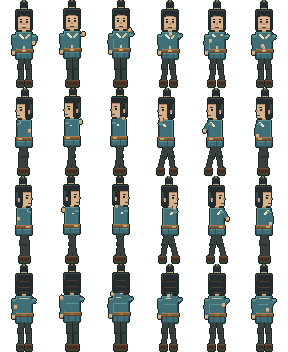
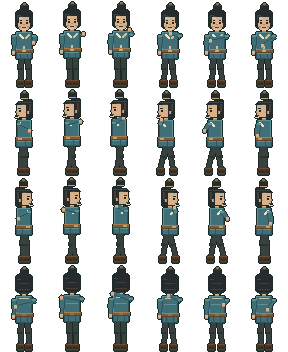
chore: 打包脚本纳入版本管理并同步协作方更新的角色图集
打包脚本
- 默认排除 6 张参考图（village/village_large/wall/barracks/field/home）：
  main.gd 运行期只读 hero.png 与 npcs.png，场景由 world_ground.gd 程序化绘制，
  这 6 张仅作美术定稿对照，v0.27 发布包本就不含。
- 需要时加 -IncludeReferenceArt 加回；输出会提示跳过数量。
- dry run：179 个文件 / 24.7MB。

同批同步（来自协作方）
- hero_walk/attack/idle_v28.png 与三张帧预览重新生成
- tools/pixel/hero.py 重构、palette.py 补色

已知问题（未修，待确认归属）：walk 图集四个朝向第 2 帧与第 4 帧仍像素全同。
工具中 phase = [1,0,-1,0][index]，第 1、3 帧同为过渡姿态且无左右换脚。
建议在 index==3 时把 feet/hands 两个端点对调，形成真正的四点循环。

diff --git a/tools/pixel/hero.py b/tools/pixel/hero.py
@@ -1,4 +1,4 @@
-"""主角陆承安的像素骨架。
+"""主角陆承安的像素骨架。
 
 不逐帧手绘，而是"关节参数 → 硬边像素"的确定性生成：
 同一个骨架产出 4 个朝向 × (行走 4 帧 + 挥剑 6 帧 + 待机 2 帧)，
@@ -52,76 +52,97 @@ def _leg(cv, hip, foot):
 
 
 # ---------------------------------------------------------------- 手臂
-def _arm(cv, shoulder, hand):
+def _arm(cv, shoulder, hand, inner=1):
     mid = ((shoulder[0] + hand[0]) / 2, (shoulder[1] + hand[1]) / 2)
     cv.limb(shoulder, mid, 5, "tunic")
     cv.limb(mid, hand, 4, "tunic")
     cv.rect(shoulder[0] - 2, shoulder[1] - 1, 4, 2, "tunic_lit")
+    # 内缘压暗，让手臂从躯干上"浮"出来
+    cv.line(shoulder[0] + 2 * inner, shoulder[1] + 1, hand[0] + 2 * inner, hand[1], "tunic_dark", 1)
     cv.rect(hand[0] - 1, hand[1] - 1, 3, 4, "skin")
     cv.rect(hand[0] - 1, hand[1] + 2, 3, 1, "skin_dark")
 
 
 # ---------------------------------------------------------------- 头
 def _bun(cv, x, y):
-    cv.rect(x, y, 6, 7, "hair")
-    cv.rect(x, y, 6, 1, "hair_lit")
-    cv.rect(x, y + 6, 6, 1, "gold")
-    cv.rect(x + 2, y - 2, 2, 2, "gold_dark")
+    """y 为发髻底边，正好压在头顶。"""
+    cv.rect(x, y - 5, 7, 6, "hair")
+    cv.rect(x, y - 5, 7, 1, "hair_lit")
+    cv.rect(x, y, 7, 1, "gold")
+    cv.rect(x + 2, y - 7, 3, 2, "gold_dark")
+
+
+# 头部轮廓：(行偏移, 左内缩, 宽度)。上圆下削，避免方块脑袋。
+HEAD_PROFILE = (
+    [(0, 3, 10), (1, 1, 14), (2, 0, 16)]
+    + [(r, 0, 16) for r in range(3, 17)]
+    + [(17, 1, 14), (18, 3, 10), (19, 4, 8)]
+)
+
+
+def _hair_mass(cv, x, y):
+    for dy, inset, w in HEAD_PROFILE:
+        cv.rect(x + inset, y + dy, w, 1, "hair")
 
 
 def _head_front(cv, dy=0, lean=0):
     x = 16 + lean
     y = CROWN + dy
-    _bun(cv, x + 5, y - 8)
-    cv.rect(x, y, 16, 20, "hair")            # 头发底胎（含鬓角）
-    cv.rect(x, y, 16, 1, "hair_lit")
-    cv.rect(x, y + 1, 1, 4, "hair_lit")
-    cv.rect(x + 2, y + 6, 12, 14, "skin")     # 脸
-    cv.rect(x + 2, y + 6, 12, 1, "skin_dark")
-    cv.rect(x + 2, y + 5, 12, 1, "hair")      # 刘海
-    cv.rect(x + 4, y + 5, 3, 1, "hair_lit")
-    cv.rect(x + 2, y + 6, 2, 1, "hair")
-    cv.rect(x + 12, y + 6, 2, 1, "hair")
-    cv.rect(x + 4, y + 11, 2, 2, "ink")       # 眼
-    cv.rect(x + 10, y + 11, 2, 2, "ink")
-    cv.rect(x + 4, y + 9, 2, 1, "hair")       # 眉
-    cv.rect(x + 10, y + 9, 2, 1, "hair")
-    cv.rect(x + 7, y + 13, 2, 2, "skin_dark")  # 鼻
+    _bun(cv, x + 5, y)
+    _hair_mass(cv, x, y)
+    cv.rect(x + 1, y + 5, 4, 1, "hair_lit")   # 顶部高光只压左上一小块
+    cv.rect(x + 1, y + 6, 1, 3, "hair_lit")
+    cv.rect(x + 2, y + 6, 12, 11, "skin")     # 脸
+    cv.rect(x + 3, y + 17, 10, 2, "skin")     # 下颌
+    cv.rect(x + 4, y + 19, 8, 1, "skin")
+    cv.rect(x + 2, y + 6, 12, 1, "hair")      # 刘海压在额头上
+    cv.rect(x + 4, y + 6, 3, 1, "hair_lit")
+    cv.rect(x + 2, y + 7, 1, 6, "hair")       # 鬓角
+    cv.rect(x + 13, y + 7, 1, 6, "hair")
+    cv.rect(x + 4, y + 12, 2, 2, "ink")       # 眼
+    cv.rect(x + 10, y + 12, 2, 2, "ink")
+    cv.rect(x + 4, y + 10, 2, 1, "hair")      # 眉
+    cv.rect(x + 10, y + 10, 2, 1, "hair")
+    cv.rect(x + 7, y + 14, 2, 1, "skin_dark")  # 鼻
     cv.rect(x + 6, y + 17, 4, 1, "ink_soft")   # 嘴
-    cv.rect(x + 2, y + 18, 12, 1, "skin_dark")
-    cv.rect(x + 4, y + 7, 6, 1, "skin_lit")
+    cv.rect(x + 5, y + 19, 6, 1, "skin_lit")   # 下巴受光
+    cv.rect(x + 3, y + 8, 4, 1, "skin_lit")
+    cv.rect(x + 3, y + 16, 2, 1, "skin_dark")  # 颧骨影
+    cv.rect(x + 11, y + 16, 2, 1, "skin_dark")
 
 
 def _head_back(cv, dy=0, lean=0):
     x = 16 + lean
     y = CROWN + dy
-    _bun(cv, x + 5, y - 8)
-    cv.rect(x, y, 16, 20, "hair")
-    cv.rect(x, y, 16, 1, "hair_lit")
-    cv.rect(x, y + 1, 1, 6, "hair_lit")
-    cv.rect(x + 3, y + 7, 10, 1, "hair_warm")
-    cv.rect(x + 2, y + 13, 12, 1, "hair_warm")
-    cv.rect(x + 4, y + 18, 8, 1, "hair_warm")
-    cv.rect(x + 6, y + 19, 4, 1, "ink_soft")
+    _bun(cv, x + 5, y)
+    _hair_mass(cv, x, y)
+    cv.rect(x + 1, y + 5, 4, 1, "hair_lit")
+    cv.rect(x + 3, y + 9, 10, 1, "hair_warm")
+    cv.rect(x + 2, y + 15, 12, 1, "hair_warm")
+    cv.rect(x + 5, y + 19, 6, 1, "ink_soft")
 
 
 def _head_side(cv, dy=0, lean=0):
     """朝右的侧面。"""
     x = 16 + lean
     y = CROWN + dy
-    _bun(cv, x + 4, y - 8)
-    cv.rect(x, y, 15, 20, "hair")             # 后脑 + 头顶
-    cv.rect(x, y, 15, 1, "hair_lit")
-    cv.rect(x + 7, y + 6, 8, 14, "skin")      # 侧脸
-    cv.rect(x + 7, y + 6, 8, 1, "skin_dark")
-    cv.rect(x + 7, y + 5, 8, 1, "hair")       # 刘海
-    cv.rect(x, y + 6, 2, 9, "hair_lit")
-    cv.rect(x + 10, y + 11, 2, 2, "ink")      # 眼
-    cv.rect(x + 10, y + 9, 3, 1, "hair")      # 眉
-    cv.rect(x + 14, y + 12, 2, 2, "skin_dark")  # 鼻尖
-    cv.rect(x + 12, y + 17, 3, 1, "ink_soft")   # 嘴
-    cv.rect(x + 2, y + 12, 2, 4, "skin_dark")   # 耳
-    cv.rect(x + 2, y + 12, 1, 4, "skin")
+    _bun(cv, x + 4, y)
+    for r in range(2, 20):                     # 后脑
+        w = 8 if r < 4 else 14
+        cv.rect(x, y + r, w, 1, "hair")
+    cv.rect(x, y + 4, 14, 1, "hair_lit")
+    cv.rect(x + 6, y + 6, 9, 11, "skin")       # 侧脸
+    cv.rect(x + 6, y + 17, 8, 2, "skin")
+    cv.rect(x + 6, y + 6, 10, 1, "hair")       # 刘海
+    cv.rect(x + 7, y + 6, 4, 1, "hair_lit")
+    cv.rect(x + 1, y + 6, 2, 8, "hair_warm")   # 后颈发
+    cv.rect(x + 11, y + 12, 2, 2, "ink")       # 眼
+    cv.rect(x + 11, y + 10, 3, 1, "hair")      # 眉
+    cv.rect(x + 15, y + 13, 1, 2, "skin_dark")  # 鼻
+    cv.rect(x + 13, y + 17, 3, 1, "ink_soft")   # 嘴
+    cv.rect(x + 3, y + 13, 2, 3, "skin_dark")   # 耳
+    cv.rect(x + 3, y + 13, 1, 3, "skin")
+    cv.rect(x + 13, y + 19, 4, 1, "skin_lit")
 
 
 # ---------------------------------------------------------------- 躯干
@@ -213,8 +234,8 @@ def _body(direction, bob, lean, arms, feet):
             _torso_front(cv, dy, lean)
         else:
             _torso_back(cv, dy, lean)
-        _arm(cv, (CX - 10 + lean, SHOULDER + dy), arms[0])
-        _arm(cv, (CX + 10 + lean, SHOULDER + dy), arms[1])
+        _arm(cv, (CX - 10 + lean, SHOULDER + dy), arms[0], 1)
+        _arm(cv, (CX + 10 + lean, SHOULDER + dy), arms[1], -1)
         if direction == 0:
             _head_front(cv, dy, lean)
         else:
@@ -223,7 +244,7 @@ def _body(direction, bob, lean, arms, feet):
         _leg(cv, (CX - 1, HIP + dy), feet[1])
         _leg(cv, (CX + 1, HIP + dy), feet[0])
         _torso_side(cv, dy, lean)
-        _arm(cv, (CX + 5 + lean, SHOULDER + dy), arms[1])
+        _arm(cv, (CX + 5 + lean, SHOULDER + dy), arms[1], -1)
         _head_side(cv, dy, lean)
     cv.out("ink")
     return cv

diff --git a/tools/pixel/palette.py b/tools/pixel/palette.py
@@ -48,6 +48,7 @@ PALETTE = {
 ASCII_KEYS = [
     (".", None),
     ("#", "ink"),
+    ("~", "ink_soft"),
     ("h", "hair"),
     ("H", "hair_lit"),
     ("s", "skin"),
